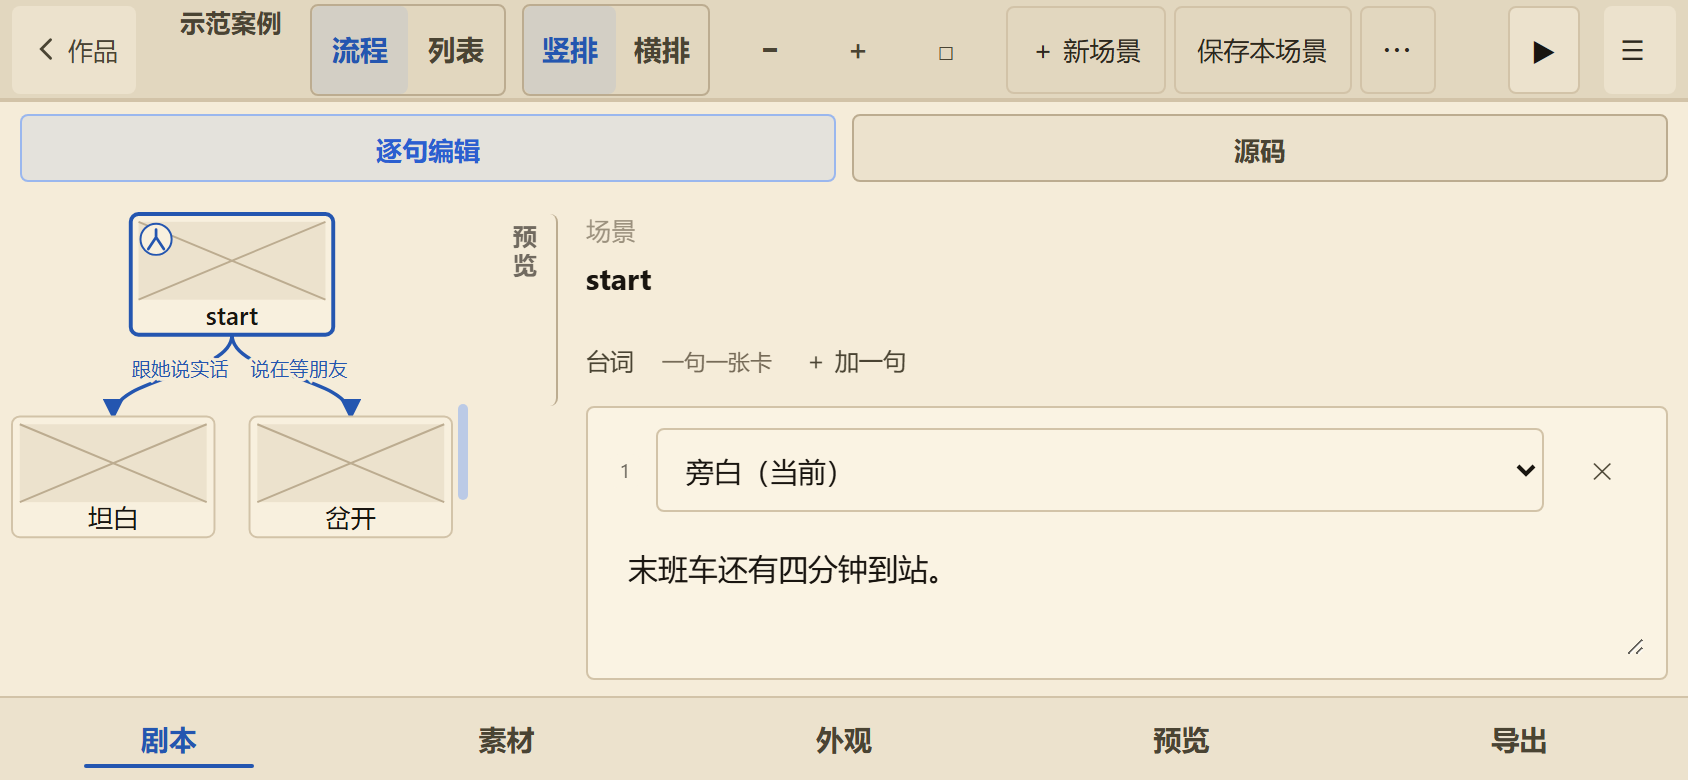
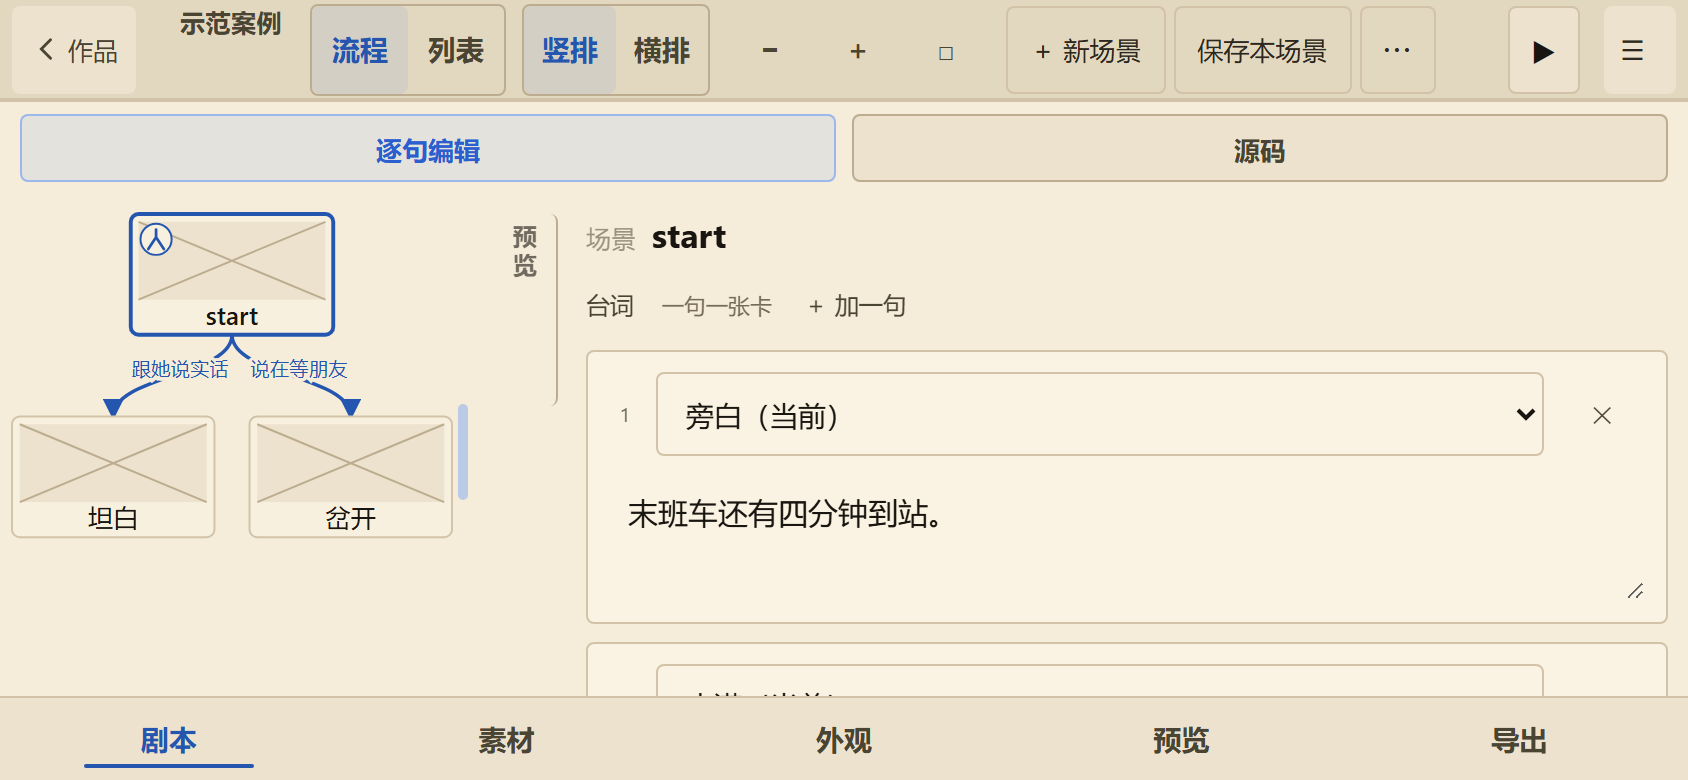
P270 长幕名不再把「场景」挤成竖排两个字（v1.2.70）
P269 把「场景」并进幕名同一行，短名没问题；幕名一长 flex 就收缩小标：
实测 18 字幕名下「场景」25×16 → 19×32（两个字各占一行），844 与 700 都会。

- 小标 flex: 0 0 auto + min-width: 0 + white-space: nowrap（不缩不换行，也不吃全局 64px 对齐基线）
- 要挤就挤幕名：flex: 1 1 auto + min-width: 0，幕名自己换行
- 实测：小标恒 25×16，幕名 255×20 → 255×41 换两行，台词卡位置不动；竖屏未动
- 新增 tests/test_p270_scene_label_noshrink.py（3 条）；p269 断言同步到 P270 写法
- MD 顺带修：README 测试数 1590 → 1596、约数「一千四百多」→「一千五百多」；五张横屏 showcase 按新排版重拍
- 门禁：pytest 1596 passed / 7 skipped / exit 0（149.12s）、pyright 无新增、探针 26/26

diff --git a/editor/editor.css b/editor/editor.css
@@ -3026,8 +3026,10 @@ input[type="color"] {
   /* P269：光把「场景」和预览顶边对齐不省空间（用户：「平行空间不是不会更大吗」）——
      真正省空间的是把「场景」小标从独立一行改成跟幕名同一行，台词再上移一整行 */
   html.m-shell #scenePage .sf-scene { display: flex; align-items: baseline; gap: 8px; margin: 0 0 4px; padding-bottom: 0; }
-  html.m-shell #scenePage .sf-scene .sf-label { display: inline-block; margin: 0; min-width: 0; font-size: 12.5px; }
-  html.m-shell #scenePage .sf-scene b { font-size: 17px; line-height: 1.2; }
+  /* P270：幕名一长，flex 会把「场景」挤成竖排两个字（实测 25px → 19px、16px → 32px 高）。
+     小标必须不缩不换行；要挤就挤幕名，它自己换行 */
+  html.m-shell #scenePage .sf-scene .sf-label { display: inline-block; margin: 0; flex: 0 0 auto; min-width: 0; white-space: nowrap; font-size: 12.5px; }
+  html.m-shell #scenePage .sf-scene b { font-size: 17px; line-height: 1.2; flex: 1 1 auto; min-width: 0; }
   html.m-shell #scenePage .sf-sec { margin: 2px 0 4px; }
   /* 预览收起：左栏留 34px 窄条点回来，编辑独占其余宽度 */
   html.m-shell.m-stage-off #scenePage.m-detail #sceneForm { grid-template-columns: 34px minmax(0, 1fr) !important; }

diff --git a/tests/test_p173_file_budget.py b/tests/test_p173_file_budget.py
@@ -53,7 +53,7 @@ FILE_BUDGET: dict[str, int] = {
     "editor/editor_shell.js": 900,   # P197b 底栏「导出」收成导出页 + 素材先关覆盖层 +9（874→883）；P258 say() 加兜底提示条 +10（887→897）——单文件版没有 window.toast，菜单里的导出提示原本全部静默
     "editor/mobile/ui_polish.js": 548,   # P188 主链路收口 + P189 结构两层（模式槽/预览浮条/空态合成/外观入口）+ P190 场景页时序兜底（场景列表重扫 + 空态恢复 + 空舞台占位 + 重扫不弹 toast）；P194 移进 mobile/，路径随搬迁改
     "editor/ui-fix.css": 327,     # P186 手机外壳 + P188 主链路样式 + P189 结构两层（浮条/场景 order/外观预览置顶）+ P190 空舞台占位（宽度显式给，否则 padding 撑高的舞台会塌成 0），新文件；P268 空舞台改成跟真舞台同比例（+3 行：height:0/min-height:0/padding-bottom 一行落点 + 两行注释）
-    "editor/editor.css": 3453,   # P267 小总览 / 竖横排开关 / 正文行距 +8；P265 流程图样式 / 预览顶边齐平 / 场景页头并进顶栏 +41；P264 横屏把预览挪到左、左栏宽度走 --m-rail、预览收起条 +12   # P179 首页去大卡后布局收口 +5；P185 顶部安全带（挖孔/侧边 cutout）+18；P190 +25 手机场景两态真正分开（#sceneForm 的 id 级 display 压过 class 级 none）+ 横屏列表不再被表单挤成 29px + 横屏右侧不留缝
+    "editor/editor.css": 3455,   # P267 小总览 / 竖横排开关 / 正文行距 +8；P265 流程图样式 / 预览顶边齐平 / 场景页头并进顶栏 +41；P264 横屏把预览挪到左、左栏宽度走 --m-rail、预览收起条 +12   # P179 首页去大卡后布局收口 +5；P185 顶部安全带（挖孔/侧边 cutout）+18；P190 +25 手机场景两态真正分开（#sceneForm 的 id 级 display 压过 class 级 none）+ 横屏列表不再被表单挤成 29px + 横屏右侧不留缝
     "engine/editor.py": 3063,   # P199a 加 /editor_lint.js /editor_find.js /i18n.js 三条路由与 serve 方法（+15，3043→3058）；P201 加 /editor_tryplay.js 路由与 _serve_tryplay_js（+5，3058→3063）；P198 新增 /editor_draft.js 路由与 _serve_draft_js（+5，3038→3043）；P184b asset_thumb.js 静态路由 +1；P188 ui_polish.js 路由 +1
     "engine/parser.py": 1080,
 }

diff --git a/tests/test_p270_scene_label_noshrink.py b/tests/test_p270_scene_label_noshrink.py
@@ -1,0 +1,48 @@
+"""P270：幕名一长，横屏标题行里「场景」小标不许被 flex 挤成竖排两个字。
+
+实测（Playwright，844×390 / 700×360，把幕名换成 18 字长名）：
+    改前  label 25×16 → 19×32（两个字各占一行，横屏 844 与 700 都会）
+    改后  label 25×16 不动，幕名自己换行（255×20 → 255×41），台词卡位置不被推走
+"""
+
+from pathlib import Path
+
+import pytest
+
+pytestmark = [pytest.mark.unit]
+
+ROOT = Path(__file__).resolve().parents[1]
+CSS = (ROOT / "editor" / "editor.css").read_text(encoding="utf-8")
+
+
+def _block() -> str:
+    start = CSS.index("/* 横屏（≥700 宽）剧本页")
+    end = CSS.index("\n}\n", start) + 2
+    return CSS[start:end]
+
+
+def test_label_never_shrinks():
+    b = _block()
+    rule = "html.m-shell #scenePage .sf-scene .sf-label"
+    assert rule in b
+    start = b.index(rule)
+    decl = b[start:b.index("}", start)]
+    # 不缩 + 不换行 + 不继承全局 min-width:64px（那会把标题推远 39px）
+    assert "flex: 0 0 auto" in decl
+    assert "white-space: nowrap" in decl
+    assert "min-width: 0" in decl
+
+
+def test_title_takes_the_squeeze():
+    b = _block()
+    rule = "html.m-shell #scenePage .sf-scene b"
+    start = b.index(rule)
+    decl = b[start:b.index("}", start)]
+    # 幕名可缩可涨、可换行：挤它，别挤小标
+    assert "flex: 1 1 auto" in decl
+    assert "min-width: 0" in decl
+
+
+def test_global_label_min_width_still_default():
+    # 其他页（角色 / 背景 / 音乐 等 sf-row）的 64px 对齐基线不许被这轮的横屏规则带跑
+    assert ".sf-label { display: inline-block; min-width: 64px;" in CSS

diff --git a/tests/test_p269_scene_title_inline.py b/tests/test_p269_scene_title_inline.py
@@ -30,9 +30,10 @@ def test_scene_label_inline_in_landscape():
     b = _block()
     # 整块变 baseline 对齐的一行；小标不再 block、不再留 6px 下边距
     assert "html.m-shell #scenePage .sf-scene { display: flex; align-items: baseline; gap: 8px; margin: 0 0 4px; padding-bottom: 0; }" in b
-    assert "html.m-shell #scenePage .sf-scene .sf-label { display: inline-block; margin: 0; min-width: 0; font-size: 12.5px; }" in b
+    # 小标并进同一行（P270 起再钉「不许被挤成竖排」，见 test_p270）
+    assert "html.m-shell #scenePage .sf-scene .sf-label { display: inline-block; margin: 0; flex: 0 0 auto; min-width: 0; white-space: nowrap; font-size: 12.5px; }" in b
     # 幕名 17px / 1.2 行高：一行里还要看得清
-    assert "html.m-shell #scenePage .sf-scene b { font-size: 17px; line-height: 1.2; }" in b
+    assert "html.m-shell #scenePage .sf-scene b { font-size: 17px; line-height: 1.2; flex: 1 1 auto; min-width: 0; }" in b
     # 旧的「两行」写法必须消失，否则等于没做
     assert "html.m-shell #scenePage .sf-scene { margin-bottom: 4px; padding-bottom: 2px; }" not in b
 

diff --git a/engine/_version.py b/engine/_version.py
@@ -22,4 +22,4 @@ from __future__ import annotations
 # 与 git tag 完全一致（tag 去掉前缀 v）。三段的 x.y.z，不许带 rc/beta 后缀：
 # Android 的 versionName 与 exe 安装包名都直接拿它，带后缀会导致两台设备显示的
 # 版本号对不上，也违背「exe 与 apk 匹配接轨」。
-VERSION = "1.2.69"
+VERSION = "1.2.70"

diff --git a/README.md b/README.md
@@ -1,7 +1,7 @@
 # MYONL · 手机上的视觉小说编辑器
 
 [![tests](https://github.com/123456789556/myonl/actions/workflows/tests.yml/badge.svg?branch=main)](https://github.com/123456789556/myonl/actions/workflows/tests.yml)
-![Release](https://img.shields.io/badge/release-v1.2.69-blue)
+![Release](https://img.shields.io/badge/release-v1.2.70-blue)
 ![License](https://img.shields.io/badge/License-MIT-green)
 ![Platform](https://img.shields.io/badge/platform-Android%207.0%2B%20%C2%B7%20Windows%20%C2%B7%20Web-19b6a3)
 ![Offline](https://img.shields.io/badge/offline-100%25-2ea44f)
@@ -297,9 +297,9 @@ python tools/pack_apk.py --game dist/single/你的作品.html
 
 ## 装它
 
-**[⬇ 下载 MYONL-v1.2.69.apk](https://github.com/123456789556/myonl/releases/download/v1.2.69/MYONL-v1.2.69.apk)** · 安卓 7.0 以上 · 手机 / 折叠屏 / 平板都能用，横竖屏自适应
+**[⬇ 下载 MYONL-v1.2.70.apk](https://github.com/123456789556/myonl/releases/download/v1.2.70/MYONL-v1.2.70.apk)** · 安卓 7.0 以上 · 手机 / 折叠屏 / 平板都能用，横竖屏自适应
 
-**[⬇ 下载 MYONL-v1.2.69-editor-win.zip](https://github.com/123456789556/myonl/releases/download/v1.2.69/MYONL-v1.2.69-editor-win.zip)** · Windows 10/11 · 解压双击 `editor.exe`，不用装 Python
+**[⬇ 下载 MYONL-v1.2.70-editor-win.zip](https://github.com/123456789556/myonl/releases/download/v1.2.70/MYONL-v1.2.70-editor-win.zip)** · Windows 10/11 · 解压双击 `editor.exe`，不用装 Python
 
 装好打开就是书架，点「新建作品」开始。底部「导出」有两条出口：
 自包含 `.html`（发微信对方就能玩）和 APK（装到手机上就是一个独立 App）。
@@ -338,7 +338,7 @@ python tools/pack_apk.py --game dist/single/你的作品.html
 
 只想做游戏的话，上面那些就够了。下面是技术细节。
 
-> 全量测试当前 **1590 passed, 7 skipped、退出码 0**（2026-11-25 本机已复跑；数随版本变，以最新一次 `pytest -q` 为准）。
+> 全量测试当前 **1596 passed, 7 skipped、退出码 0**（2026-11-25 本机已复跑；数随版本变，以最新一次 `pytest -q` 为准）。
 > 界面另外有一条机器探针 `tools/ui_probe/probe_shell.py`（26 条，手机 390×844 / 横屏 844×390 / 桌面 1440×900），
 > CI 里 push 改 `editor/**`、`web/**` 就跟着跑，失败会贴出是哪一条不符并留截图 —— 之前的界面验证全在人手上，这是补上的那个洞。
 
@@ -484,7 +484,7 @@ flowchart LR
 
 **代价（说明白）**：`@bg` / `@choice` / `@jump` 这套规则现在存在两份实现——Python 一份、JS 一份。电脑上改了规则，手机上得手动跟一遍，否则**手机上看到的预览和导出的成品可能跟电脑不一致**。这是当前最大的结构风险，不是小问题。
 
-**为什么不直接统一**：Python 那份有一千四百多条测试兜着，JS 这份没有同等密度的测试。直接砍掉 Python 等于把护栏一起砍了。真要收敛成一份，得先把等价的 JS 测试建起来再动。
+**为什么不直接统一**：Python 那份有一千五百多条测试兜着，JS 这份没有同等密度的测试。直接砍掉 Python 等于把护栏一起砍了。真要收敛成一份，得先把等价的 JS 测试建起来再动。
 
 **体积与内存（2026-11-21 实测字节，不是估计）**
 - 模板 APK `android/template.apk` **2,204,397 字节**（2.10 MiB），壳是 WebView，`lib/` 下 0 个 .so

diff --git a/docs/CHANGELOG.md b/docs/CHANGELOG.md
@@ -8,6 +8,17 @@
 
 ---
 
+## 2026-11-25 · v1.2.70
+
+**长幕名不再把「场景」挤成竖排两个字。**
+
+- 上一版把「场景」并进幕名同一行，短名没问题；幕名一长，flex 就收缩小标：实测 18 字幕名下
+  「场景」宽 25 → 19px、高 16 → 32px（两个字各占一行），844 和 700 都会。
+- 修法：小标 `flex: 0 0 auto; min-width: 0; white-space: nowrap`（不缩、不换行，也不吃全局 64px 对齐基线），
+  要挤就挤幕名——`flex: 1 1 auto; min-width: 0`，幕名自己换行。
+- 实测（844×390 / 700×360）：小标恒 25×16，幕名 255×20 → 255×41 换两行，台词卡不上移不推走；竖屏未动。
+- 顺带把五张横屏 showcase 截图按新排版重拍（README 里引的那几张）。
+
 ## 2026-11-25 · v1.2.69
 
 **横屏正文：「场景」小标并进幕名一行，台词整行上移。**

diff --git a/docs/版本规则.md b/docs/版本规则.md
@@ -195,6 +195,7 @@ git tag -a v1.1.0 && git push tag      # 打 tag，CI 出包
 | v1.2.67 | 流程图可竖排可横排（记住）；放大后右下角出小总览可点着跳；幕名到台词的空白收紧（台词卡上移 26px） |
 | v1.2.68 | 横屏剧本页左栏与预览两处都能拖宽（双击复位、方向键微调、松手记住）；空态占位跟真舞台同比例，拖宽会跟着长高 |
 | v1.2.69 | 横屏正文「场景」小标并进幕名一行（幕名块 44→20px，台词卡 203→175）；竖屏不动 |
+| v1.2.70 | 幕名再长也不许把「场景」挤成竖排（小标 flex:0 0 auto），要挤就挤幕名让它换行 |
 
 > v1.2.15–v1.2.21、v1.2.29–v1.2.45 在 `CHANGELOG.md` 里没有正文条目（当时只写了 tag message，
 > 发布说明靠 Actions 的 Release body）。上面这些行的依据是 annotated tag 的 tag message，不是回忆。
